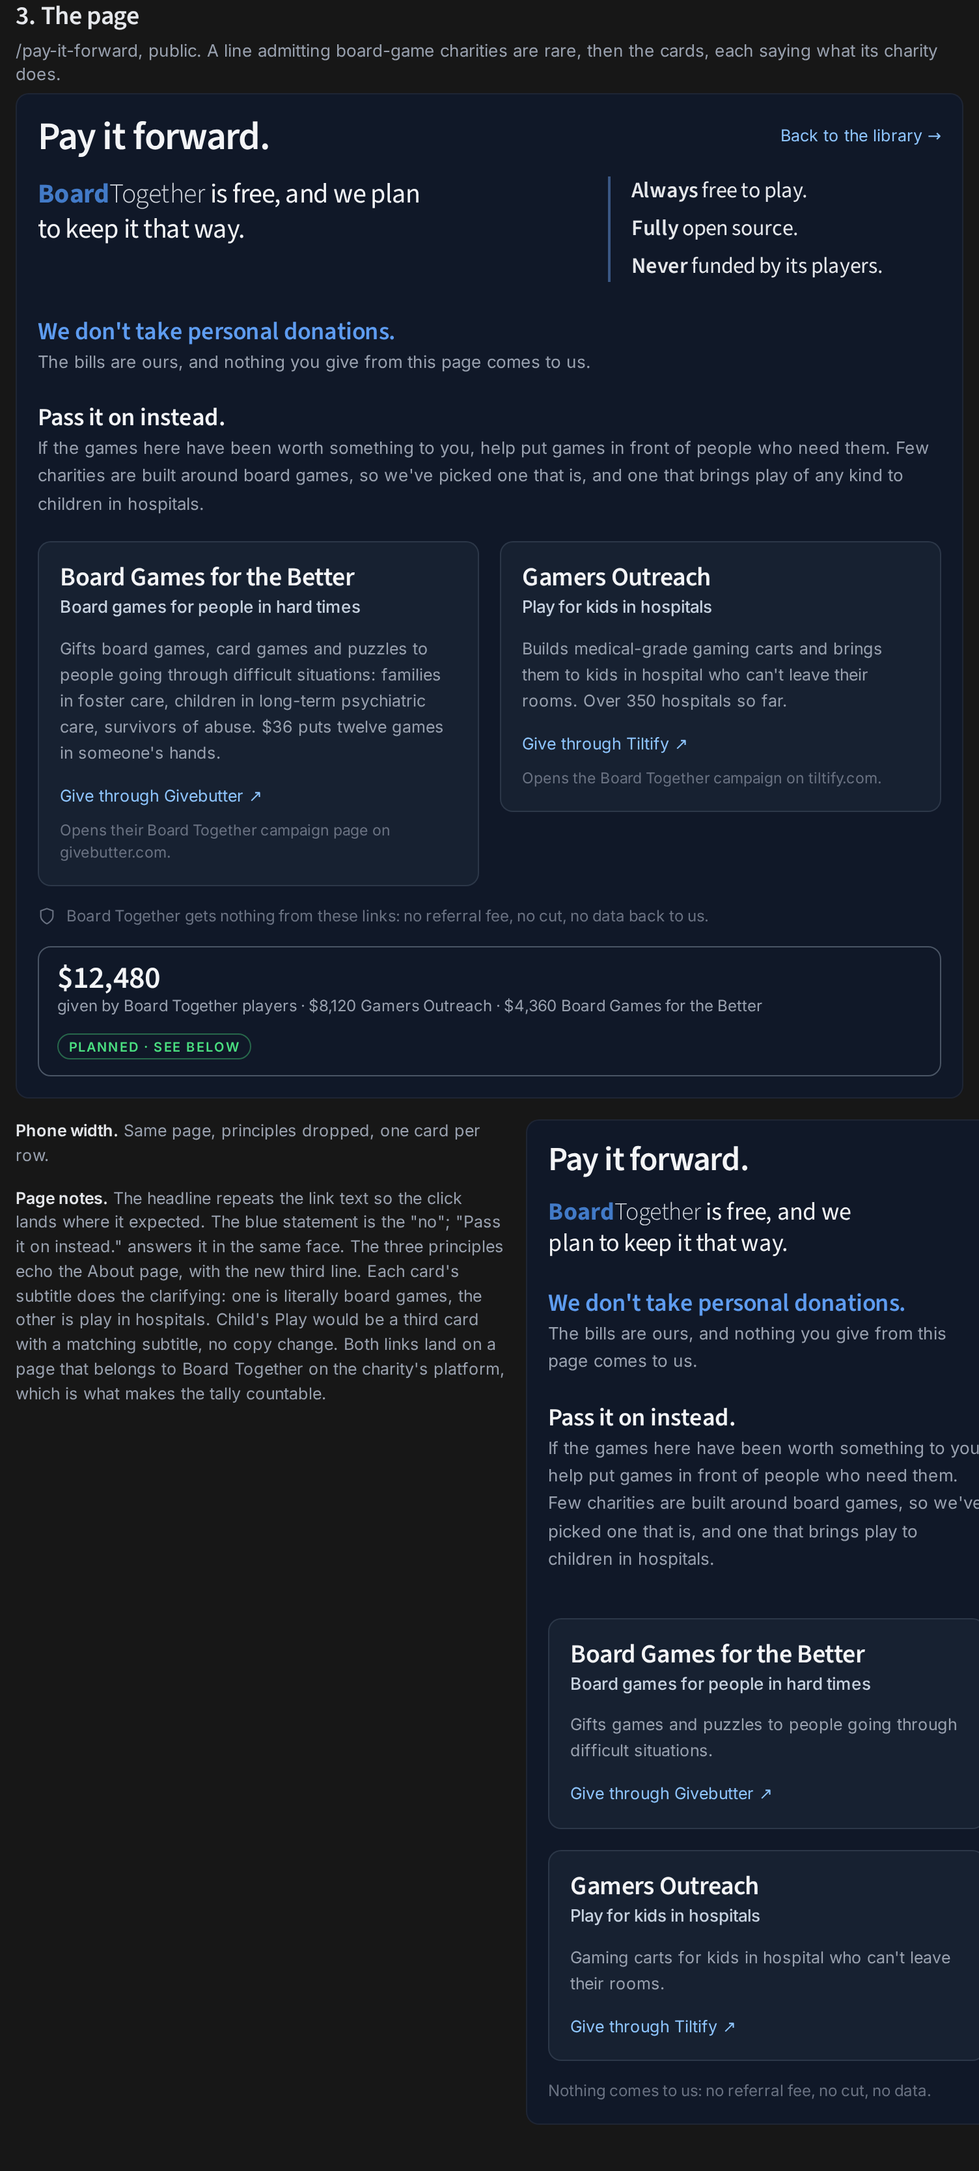
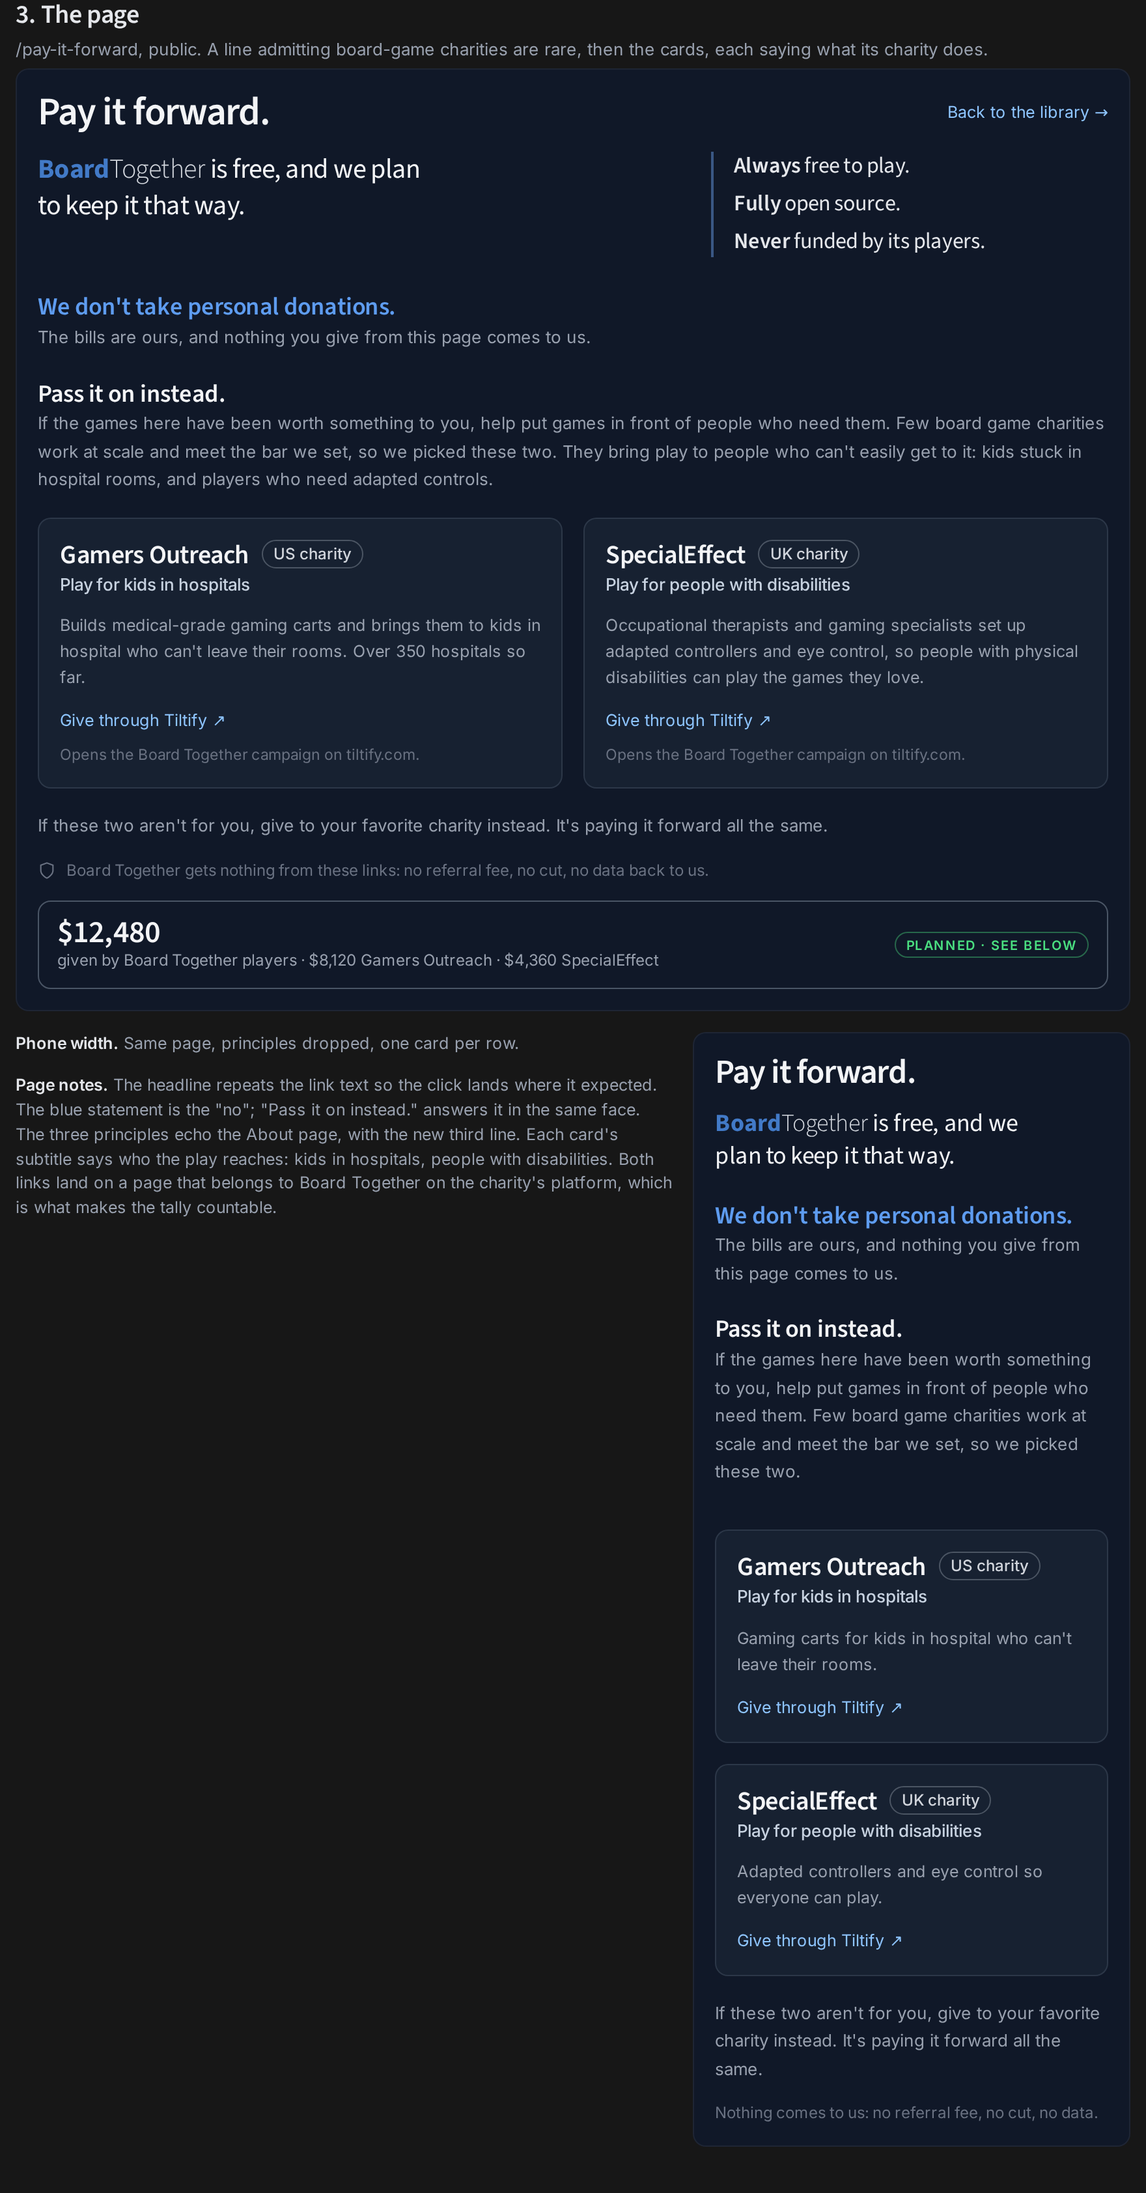
Pay it forward: SpecialEffect replaces Board Games for the Better
Board Games for the Better could not be reached, so the second charity
is SpecialEffect (UK, adapted controls for disabled players) beside
Gamers Outreach (US). Each card tags its country, the page says why
these two were picked and invites players to give to their favorite
charity instead. Both campaigns live on Tiltify, so one app token
tallies both. AbleGamers was considered and rejected.

diff --git a/docs/pay-it-forward/mockups.html b/docs/pay-it-forward/mockups.html
@@ -143,7 +143,9 @@
   .gp.phone .charities{grid-template-columns:1fr}
   .gp.phone h1{font-size:26px}
   .gp.phone .lead{font-size:19px}
-  .phone{width:100%;max-width:336px;margin:0 auto}
+  .gp .other{margin-top:18px}
+  .gp .charity .where{display:inline-block;vertical-align:3px;margin-left:10px;padding:1px 8px;border:1px solid #4b5563;border-radius:999px;font:500 12px/1.5 Inter,system-ui,sans-serif;letter-spacing:0;color:#d1d5dc}
+  .phone{width:100%;max-width:336px;margin:0 auto;box-sizing:border-box}
 
   /* chips */
   .chips{display:grid;gap:8px;grid-template-columns:1fr;margin:10px 0 0}
@@ -162,10 +164,10 @@
 <body>
 <div class="page">
 
-<p class="lede">Updated with your decisions. Label is <b style="color:var(--foreground)">Pay it forward</b>, the "no" line is <b style="color:var(--foreground)">We don't take personal donations. The bills are ours</b> (sponsorship stays possible; players never pay), the charities are Board Games for the Better and Gamers Outreach. Tally planned, no "I gave" button. Finished-game line is a maybe, milestone card parked.</p>
+<p class="lede">Updated with your decisions. Label is <b style="color:var(--foreground)">Pay it forward</b>, the "no" line is <b style="color:var(--foreground)">We don't take personal donations. The bills are ours</b> (sponsorship stays possible; players never pay), the charities are Gamers Outreach and SpecialEffect. Tally planned, no "I gave" button. Finished-game line is a maybe, milestone card parked.</p>
 <div class="chips" style="grid-template-columns:repeat(2,1fr)">
   <div class="chip"><div class="nm">Gamers Outreach <span class="rec">chosen</span></div><div class="why">Gaming carts for kids in children's hospitals. Based in Saline, Michigan. Fundraises on Tiltify and GoFundMe Pro.</div></div>
-  <div class="chip"><div class="nm">Board Games for the Better <span class="rec">chosen</span></div><div class="why">New York 501(c)(3) gifting games to people in hard times. Takes donations through Givebutter.</div></div>
+  <div class="chip"><div class="nm">SpecialEffect <span class="rec">chosen</span></div><div class="why">UK charity that sets up adapted controls so people with physical disabilities can play. Fundraises on Tiltify and JustGiving.</div></div>
 </div>
 
 <h2>1. Where it lives: quiet, always there<small>Same visual weight as "About Us". Never a coloured button, never a modal.</small></h2>
@@ -269,20 +271,21 @@
     <p class="stmt blue">We don't take personal donations.</p>
     <p class="body wide">The bills are ours, and nothing you give from this page comes to us.</p>
     <p class="stmt">Pass it on instead.</p>
-    <p class="body wide">If the games here have been worth something to you, help put games in front of people who need them. Few charities are built around board games, so we've picked one that is, and one that brings play of any kind to children in hospitals.</p>
+    <p class="body wide">If the games here have been worth something to you, help put games in front of people who need them. Few board game charities work at scale and meet the bar we set, so we picked these two. They bring play to people who can't easily get to it: kids stuck in hospital rooms, and players who need adapted controls.</p>
     <div class="charities">
-      <div class="group">        <div class="card charity"><div class="name">Board Games for the Better</div><div class="who">Board games for people in hard times</div><p>Gifts board games, card games and puzzles to people going through difficult situations: families in foster care, children in long-term psychiatric care, survivors of abuse. $36 puts twelve games in someone's hands.</p><a class="lnk" href="#">Give through Givebutter ↗</a><div class="fine">Opens their Board Together campaign page on givebutter.com.</div></div>
+      <div class="group">        <div class="card charity"><div class="name">Gamers Outreach<span class="where">US charity</span></div><div class="who">Play for kids in hospitals</div><p>Builds medical-grade gaming carts and brings them to kids in hospital who can't leave their rooms. Over 350 hospitals so far.</p><a class="lnk" href="#">Give through Tiltify ↗</a><div class="fine">Opens the Board Together campaign on tiltify.com.</div></div>
       </div>
-      <div class="group">        <div class="card charity"><div class="name">Gamers Outreach</div><div class="who">Play for kids in hospitals</div><p>Builds medical-grade gaming carts and brings them to kids in hospital who can't leave their rooms. Over 350 hospitals so far.</p><a class="lnk" href="#">Give through Tiltify ↗</a><div class="fine">Opens the Board Together campaign on tiltify.com.</div></div>
+      <div class="group">        <div class="card charity"><div class="name">SpecialEffect<span class="where">UK charity</span></div><div class="who">Play for people with disabilities</div><p>Occupational therapists and gaming specialists set up adapted controllers and eye control, so people with physical disabilities can play the games they love.</p><a class="lnk" href="#">Give through Tiltify ↗</a><div class="fine">Opens the Board Together campaign on tiltify.com.</div></div>
       </div>
     </div>
+    <p class="body wide other">If these two aren't for you, give to your favorite charity instead. It's paying it forward all the same.</p>
     <div class="trust"><svg viewBox="0 0 24 24"><path d="M12 22s8-4 8-10V5l-8-3-8 3v7c0 6 8 10 8 10z"/></svg><span>Board Together gets nothing from these links: no referral fee, no cut, no data back to us.</span></div>
-    <div class="later" style="border-style:solid"><div><div class="n">$12,480</div><div class="l">given by Board Together players · $8,120 Gamers Outreach · $4,360 Board Games for the Better</div></div><span class="badge" style="color:#4ade80;border-color:#4ade8066">planned · see below</span></div>
+    <div class="later" style="border-style:solid"><div><div class="n">$12,480</div><div class="l">given by Board Together players · $8,120 Gamers Outreach · $4,360 SpecialEffect</div></div><span class="badge" style="color:#4ade80;border-color:#4ade8066">planned · see below</span></div>
   </div>
 <div class="row side" style="margin-top:16px">
   <div>
     <p class="cap" style="margin-top:0"><b>Phone width.</b> Same page, principles dropped, one card per row.</p>
-    <p class="cap" style="margin-top:14px"><b>Page notes.</b> The headline repeats the link text so the click lands where it expected. The blue statement is the "no"; "Pass it on instead." answers it in the same face. The three principles echo the About page, with the new third line. Each card's subtitle does the clarifying: one is literally board games, the other is play in hospitals. Child's Play would be a third card with a matching subtitle, no copy change. Both links land on a page that belongs to Board Together on the charity's platform, which is what makes the tally countable.</p>
+    <p class="cap" style="margin-top:14px"><b>Page notes.</b> The headline repeats the link text so the click lands where it expected. The blue statement is the "no"; "Pass it on instead." answers it in the same face. The three principles echo the About page, with the new third line. Each card's subtitle says who the play reaches: kids in hospitals, people with disabilities. Both links land on a page that belongs to Board Together on the charity's platform, which is what makes the tally countable.</p>
       </div>
   <div><div class="mock gp phone">
       <h1>Pay it forward.</h1>
@@ -292,15 +295,16 @@
           <p class="stmt blue">We don't take personal donations.</p>
           <p class="body">The bills are ours, and nothing you give from this page comes to us.</p>
           <p class="stmt">Pass it on instead.</p>
-          <p class="body">If the games here have been worth something to you, help put games in front of people who need them. Few charities are built around board games, so we've picked one that is, and one that brings play to children in hospitals.</p>
+          <p class="body">If the games here have been worth something to you, help put games in front of people who need them. Few board game charities work at scale and meet the bar we set, so we picked these two.</p>
         </div>
       </div>
       <div class="charities">
-        <div class="group">          <div class="card charity"><div class="name">Board Games for the Better</div><div class="who">Board games for people in hard times</div><p>Gifts games and puzzles to people going through difficult situations.</p><a class="lnk" href="#">Give through Givebutter ↗</a></div>
+        <div class="group">          <div class="card charity"><div class="name">Gamers Outreach<span class="where">US charity</span></div><div class="who">Play for kids in hospitals</div><p>Gaming carts for kids in hospital who can't leave their rooms.</p><a class="lnk" href="#">Give through Tiltify ↗</a></div>
         </div>
-        <div class="group">          <div class="card charity"><div class="name">Gamers Outreach</div><div class="who">Play for kids in hospitals</div><p>Gaming carts for kids in hospital who can't leave their rooms.</p><a class="lnk" href="#">Give through Tiltify ↗</a></div>
+        <div class="group">          <div class="card charity"><div class="name">SpecialEffect<span class="where">UK charity</span></div><div class="who">Play for people with disabilities</div><p>Adapted controllers and eye control so everyone can play.</p><a class="lnk" href="#">Give through Tiltify ↗</a></div>
         </div>
       </div>
+      <p class="body other">If these two aren't for you, give to your favorite charity instead. It's paying it forward all the same.</p>
       <div class="trust"><span>Nothing comes to us: no referral fee, no cut, no data.</span></div>
     </div></div>
 </div>
@@ -309,9 +313,9 @@
 <table>
   <tr><th>Charity</th><th>Platform</th><th>What it exposes</th><th>Set-up needed</th></tr>
   <tr><td>Gamers Outreach</td><td>Tiltify (and GoFundMe Pro)</td><td>Tiltify's public API returns a campaign's amount raised, goal and donate link. It needs an application token from a free Tiltify account; tokens last two hours, so the nightly fetch requests one each run.</td><td>Create a Board Together campaign under their Tiltify cause (tiltify.com/gamersoutreach). Tiltify retires a campaign after six months without a donation, so the fetch should notice retired status. If the in-person conversation yields a GoFundMe Pro page with read access instead, use that.</td></tr>
-  <tr><td>Board Games for the Better</td><td>Givebutter</td><td>API needs their account's key. Their widgets (goal bar with amount raised) need their account ID and a campaign code. Campaigns, teams and members each report raised.</td><td>Ask them for a Board Together campaign or team page. Then either their goal-bar widget on our page, or a restricted API key for the nightly fetch.</td></tr>
+  <tr><td>SpecialEffect</td><td>Tiltify (and JustGiving)</td><td>Same Tiltify API and the same application token as Gamers Outreach.</td><td>Create a Board Together campaign under their Tiltify cause (tiltify.com/specialeffect, the link on their own fundraising page). Same six-month retirement rule.</td></tr>
 </table>
-<p class="cap"><b>Caveats.</b> Platform totals can include pledges or unsettled gifts, so the number should say "raised" not "received". The Givebutter half is not under your control until Board Games for the Better create the page.</p>
+<p class="cap"><b>Caveats.</b> Platform totals can include pledges or unsettled gifts, so the number should say "raised" not "received". Both campaigns are yours to create, so the tally needs no charity's cooperation. A SpecialEffect campaign may raise in pounds; if so, the tally converts to one currency or shows each in its own.</p>
 
 <h2>5. First version<small>What gets built if you say go.</small></h2>
 <table>

diff --git a/docs/pay-it-forward.md b/docs/pay-it-forward.md
@@ -10,7 +10,8 @@ Mockups: [`pay-it-forward/mockups.html`](pay-it-forward/mockups.html) (open in a
 
 - The label everywhere is **Pay it forward**. "Donate" and "Support us" never appear on our own pages; both read as asking for ourselves.
 - The "no" is **We don't take personal donations.** The word *personal* matters: corporate sponsorship of the site stays possible, players never pay. It is followed by **The bills are ours, and nothing you give from this page comes to us.**
-- The charities are **Board Games for the Better** (board games for people in hard times) and **Gamers Outreach** (gaming carts for kids in hospitals). Gamers Outreach was chosen over Extra Life.
+- The charities are **Gamers Outreach** (US; gaming carts for kids in hospitals) and **SpecialEffect** (UK; adapted controls so people with physical disabilities can play). Gamers Outreach was chosen over Extra Life. Board Games for the Better was the first board-game pick but could not be reached. Players are worldwide, so one US and one UK charity is a feature, and each card says which country it is in.
+- The page admits the choice plainly: few board game charities work at scale and meet our bar, so these two were picked. It also tells players to give to their favorite charity instead if these two aren't for them.
 - A running **tally** of what Board Together players have raised is wanted. An "I gave" self-report button is not.
 - No modals, banners or coloured buttons for the ask. No eyebrow labels in the page typography.
 - The finished-game line ("Good game? Pass it on.") is a maybe. The milestone card is parked for a later revisit. Neither is in the first version.
@@ -23,10 +24,11 @@ Public, in the About page's visual language.
 2. Header row: the lead "**Board**Together is free, and we plan to keep it that way." with the wordmark (bold blue Board, light Together), and the principles column: *Always* free to play. *Fully* open source. *Never* funded by its players.
 3. Full width below the header:
    - **We don't take personal donations.** as a blue statement, with its one body line.
-   - **Pass it on instead.** as a white statement in the same face, with "If the games here have been worth something to you, help put games in front of people who need them. Few charities are built around board games, so we've picked one that is, and one that brings play of any kind to children in hospitals."
-4. One card per charity: name, a brighter subtitle saying what it does, a short description, a "Give through …" link to a Board Together page on the charity's platform, and a line saying where it opens.
-5. "Board Together gets nothing from these links: no referral fee, no cut, no data back to us."
-6. The tally: total raised by Board Together players, with the split per charity.
+   - **Pass it on instead.** as a white statement in the same face, with "If the games here have been worth something to you, help put games in front of people who need them. Few board game charities work at scale and meet the bar we set, so we picked these two. They bring play to people who can't easily get to it: kids stuck in hospital rooms, and players who need adapted controls." On phones the paragraph stops after "these two."
+4. One card per charity: name with an outlined country tag ("US charity", "UK charity"), a brighter subtitle saying what it does, a short description, a "Give through …" link to a Board Together page on the charity's platform, and a line saying where it opens.
+5. "If these two aren't for you, give to your favorite charity instead. It's paying it forward all the same."
+6. "Board Together gets nothing from these links: no referral fee, no cut, no data back to us."
+7. The tally: total raised by Board Together players, with the split per charity.
 
 On phones the principles column drops and the cards stack.
 
@@ -47,15 +49,15 @@ A backend job fetches each charity's total once a night and caches it. The brows
 | Charity | Platform | What it exposes | Set-up needed |
 |---|---|---|---|
 | Gamers Outreach | Tiltify, and GoFundMe Pro for direct giving | Tiltify v5 public API: a campaign's `amount_raised`, `goal`, `donate_url`, `url`. Needs an application token from a free Tiltify account (client credentials, `POST https://v5api.tiltify.com/oauth/token`, two-hour lifetime). Unauthenticated requests get 401. | A Board Together campaign under their cause, tiltify.com/gamersoutreach. Tiltify retires a campaign after six months without a donation, so the job must notice retired status and fall back to a plain donate link. The user may visit them in person and could get a GoFundMe Pro page with read access instead. |
-| Board Games for the Better | Givebutter | The API needs the charity's own key. Their goal-bar widget shows amount raised but needs their account ID and a campaign code. | The user is contacting them. Ask for a Board Together campaign or team page, then either a restricted API key for the nightly job or their goal-bar widget on our page. |
+| SpecialEffect | Tiltify, and JustGiving | The same Tiltify API and the same application token. | A Board Together campaign under their cause, tiltify.com/specialeffect (the Tiltify link on their own fundraising page). Same six-month retirement rule. A campaign there may raise in pounds; if so, the tally converts to one currency or shows each in its own. |
 
-Platform totals can include pledges or unsettled gifts, so the page says "raised", not "received". Until a charity's page exists, its card links to the charity's general donate page and it is left out of the tally.
+Both campaigns are ours to create, so the tally needs no charity's cooperation. Platform totals can include pledges or unsettled gifts, so the page says "raised", not "received". Until a charity's page exists, its card links to the charity's general donate page and it is left out of the tally.
 
 ## First version
 
 | Piece | Status |
 |---|---|
-| /pay-it-forward page | Build, tally wired to the Gamers Outreach Tiltify campaign first |
+| /pay-it-forward page | Build, tally wired to both Tiltify campaigns |
 | Header link and phone menu entry | Build |
 | About card and third principle | Build |
 | Landing small print | Build |
@@ -66,10 +68,13 @@ Platform totals can include pledges or unsettled gifts, so the page says "raised
 
 ## Other charities considered
 
-Board-game-specific charities are rare and mostly small. Checked on 2026-10-21:
+Board-game-specific charities are rare and mostly small. Checked on 2026-10-21 and 2026-10-26:
 
 - **Extra Life** (Children's Miracle Network Hospitals, DonorDrive): keyless public API. Dropped in favour of Gamers Outreach.
-- **Child's Play** (games for children's hospitals): no API of its own; fundraisers run on Tiltify (tiltify.com/child-s-play), so it would take the same route as Gamers Outreach.
+- **Board Games for the Better** (New York, board games for people in hard times, Givebutter): the first pick, dropped because they could not be reached.
+- **AbleGamers** (US, accessibility, Tiltify): rejected after the May 2025 IGN report of former employees' allegations of abuse and financial mismanagement against founder Mark Barlet, which he denies.
+- **Child's Play** (games for children's hospitals): no API of its own; fundraisers run on Tiltify (tiltify.com/child-s-play). Clean record, but overlaps Gamers Outreach.
+- **Take This** (mental health in the games industry, Tiltify or Streamlabs): furthest from the pitch.
 - **Jack Vasel Memorial Fund** (hardship grants to gamers, EIN 45-1583593): PayPal button only, no totals.
 - **Meeples for Peeples** (St. Louis, games for families and educators): Give Lively, which has no public API, only an iframe widget and member-side Zapier.
 - **Board Game Buddies** (Chicago), **Board Game Blast** (Los Angeles), **The Bodhana Group** (York, PA): small, no machine-readable totals found.
